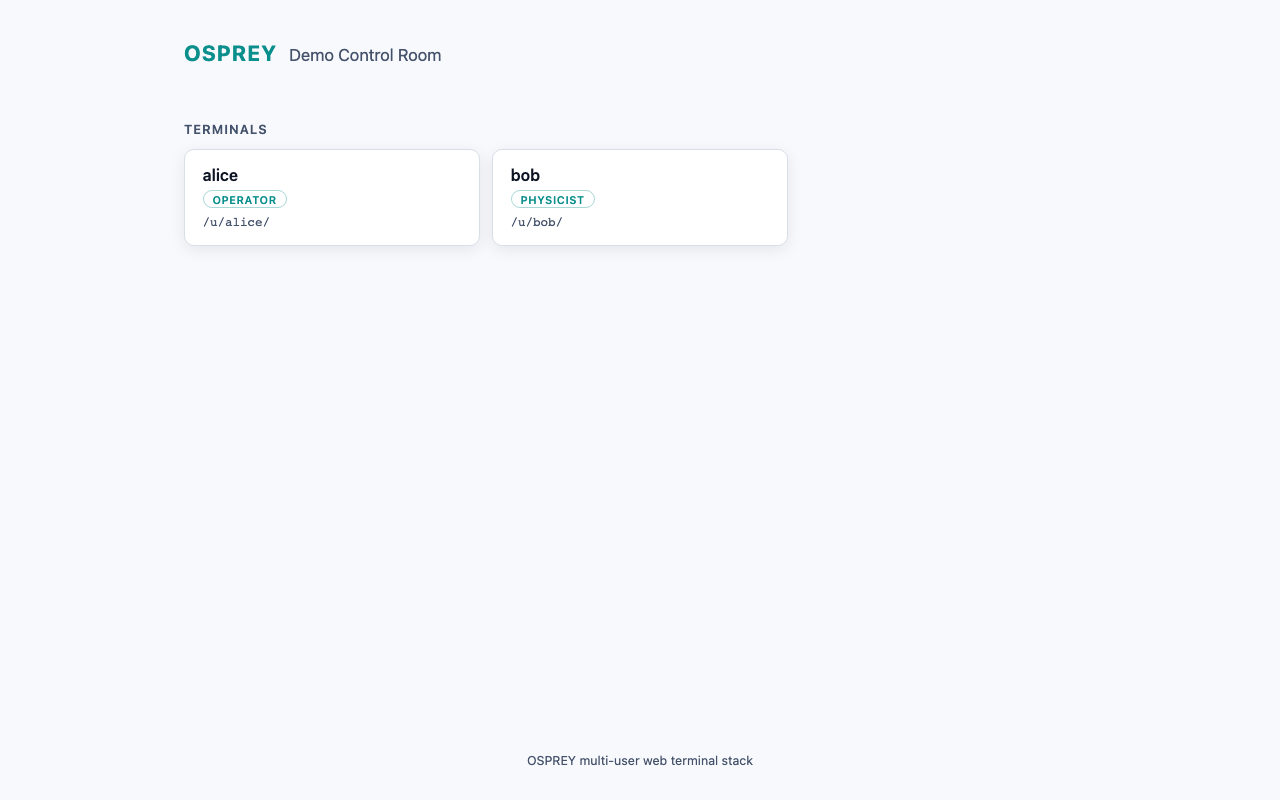
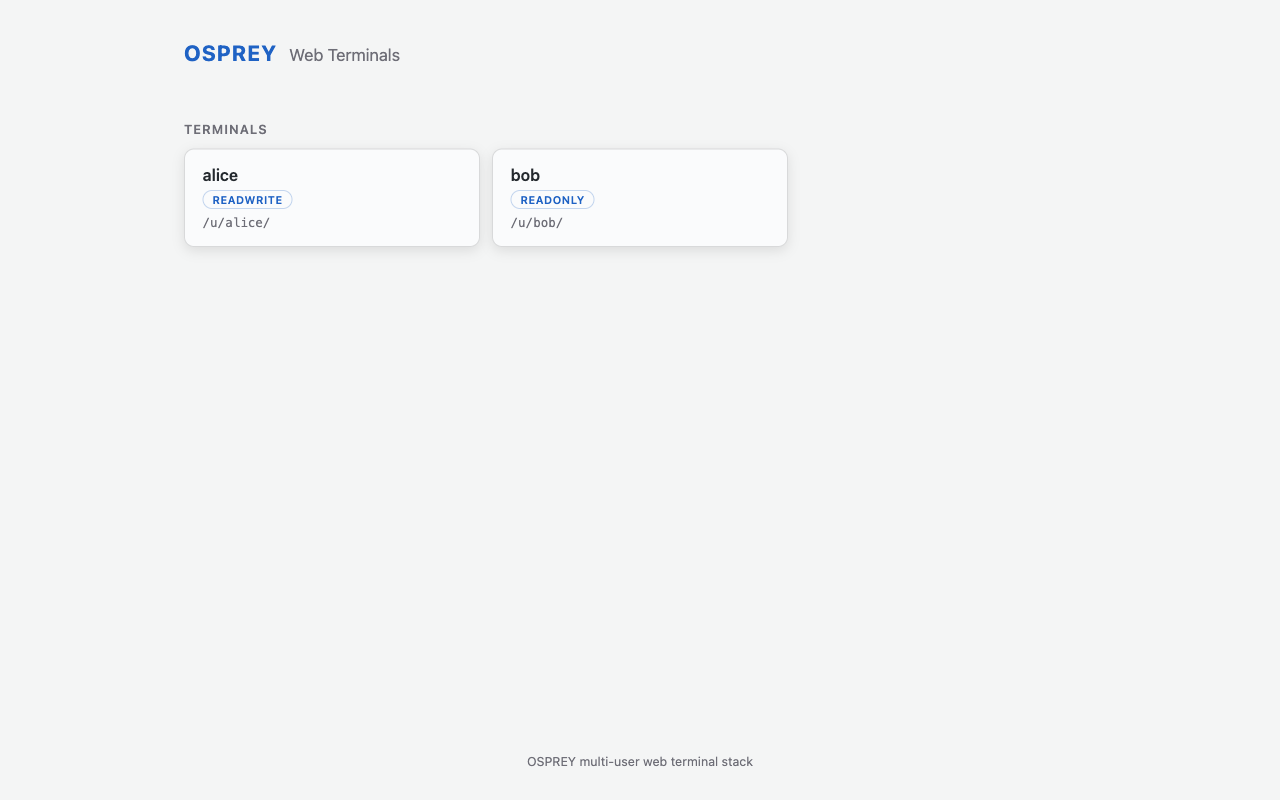
feat(presets): split control-assistant tiers by role, surface, and panels
The tutorial roster now ships alice as the write-capable operator and bob
as the read-only viewer, each with a role-naming browser tab title. The
personas pin the full tier contract, not just the write switch: expert vs
simple web surface, and the EVENTS/BLUESKY panel declarations move from
the shared base into the readwrite persona so the read-only terminal is
built without them (a persona delta cannot subtract inherited config, and
enabled: false is inert for URL panels). Both terminals default to the
main theme in light mode.

Preset content hashes are re-pinned knowingly; the persona contract test
asserts the three-axis tier boundary wholesale, and the multi-user guide
and landing screenshot track the shipped shape.

diff --git a/tests/cli/test_persona_presets.py b/tests/cli/test_persona_presets.py
@@ -2,13 +2,16 @@
 
 The ``control-assistant`` preset hosts its own multi-user web tier — nginx,
 the landing page, and one terminal container per roster user — alongside the
-full scan stack. Two persona presets extend it to carve out capability
-postures that differ on exactly one axis, ``control_system.writes_enabled``:
+full scan stack. Two persona presets extend it to carve out capability tiers
+that differ on exactly three axes — enforcement
+(``control_system.writes_enabled``), surface (``web.ui_mode``), and the
+write-oriented panel declarations (EVENTS + BLUESKY, readwrite-only):
 
-* ``control-assistant-readwrite`` — write-capable tier; channel writes pass
-  the ordinary safety chain (writes-check, limits, human approval).
-* ``control-assistant-readonly`` — read-only tier; every write surface
-  refuses.
+* ``control-assistant-readwrite`` — write-capable tier; expert workspace;
+  channel writes pass the ordinary safety chain (writes-check, limits, human
+  approval); declares the EVENTS/BLUESKY panels.
+* ``control-assistant-readonly`` — read-only tier; simple chat-first surface;
+  every write surface refuses; built without the EVENTS/BLUESKY panels.
 
 The base's own ``web_terminals`` roster block is also exercised here. Shared
 render helpers live at the top so new sections append without restructuring.
@@ -33,6 +36,19 @@ from osprey.utils.config_writer import config_update_fields
 # The single config key the two persona tiers differ on — the reference
 # monitor's master write switch (see osprey.connectors.control_system.base).
 WRITES_KEY = "control_system.writes_enabled"
+UI_MODE_KEY = "web.ui_mode"
+# The write-oriented panels: declared only in the readwrite persona, so the
+# readonly build genuinely lacks them (a persona delta can only add config
+# keys; `enabled: false` is inert for URL panels).
+READWRITE_PANEL_KEYS = (
+    "web.panels.events.label",
+    "web.panels.events.url",
+    "web.panels.events.path",
+    "web.panels.events.health_endpoint",
+    "web.panels.bluesky.label",
+    "web.panels.bluesky.url",
+    "web.panels.bluesky.path",
+)
 
 # The literal dotted key the hosting preset must carry: the whole web-terminals
 # module subtree addressed as one leaf so config_writer sets only this leaf and
@@ -178,8 +194,9 @@ class TestControlAssistantWebTier:
         """The rendered ``modules.web_terminals`` subtree matches the two-persona
         tutorial shape: local image source, readonly default, a
         readonly/readwrite catalog whose ``project`` equals its ``project_path``
-        basename, and a roster mapping alice→readonly and bob→readwrite, both
-        explicit.
+        basename, and a roster mapping alice→readwrite and bob→readonly, both
+        explicit, each carrying the tab-title ``display_name`` that visibly
+        marks which terminal is write-armed.
 
         Deliberately pins the preset's OWN ``config:`` layer, BEFORE the catalog
         rewrite every build performs — which is why the ``build_profile`` values
@@ -199,8 +216,18 @@ class TestControlAssistantWebTier:
         assert wt["default_persona"] == "readonly"
         assert wt["nginx_port"] == 9080
 
-        assert wt["users"][0] == {"name": "alice", "index": 0, "persona": "readonly"}
-        assert wt["users"][1] == {"name": "bob", "index": 1, "persona": "readwrite"}
+        assert wt["users"][0] == {
+            "name": "alice",
+            "index": 0,
+            "persona": "readwrite",
+            "display_name": "Control Room (Alice)",
+        }
+        assert wt["users"][1] == {
+            "name": "bob",
+            "index": 1,
+            "persona": "readonly",
+            "display_name": "Read-Only View (Bob)",
+        }
 
         personas = wt["personas"]
         assert set(personas) == {"readonly", "readwrite"}
@@ -295,10 +322,11 @@ class TestControlAssistantWebTier:
 
 
 class TestControlAssistantPersonas:
-    """The readonly/readwrite pair: identical projects except for the one
-    write-switch key. Any second difference that creeps in would turn the
-    multi-user story ("one switch, every write surface") into a lie, so the
-    invariant is asserted wholesale rather than key-by-key."""
+    """The readonly/readwrite pair: identical projects except for the tier
+    contract — enforcement (``writes_enabled``), surface (``ui_mode``), and
+    the write-oriented panel declarations (readwrite-only). Any FOURTH
+    difference that creeps in would turn the multi-user story into a lie, so
+    the invariant is asserted wholesale rather than key-by-key."""
 
     def test_readonly_extends_base_and_disables_writes(self) -> None:
         profile = resolve_preset("control-assistant-readonly")
@@ -322,15 +350,24 @@ class TestControlAssistantPersonas:
             profile = resolve_preset(name)
             assert profile.config.get("control_system.type") == "virtual_accelerator"
 
-    def test_personas_differ_only_on_writes_enabled(self) -> None:
+    def test_personas_differ_only_on_the_tier_contract(self) -> None:
         readonly = resolve_preset("control-assistant-readonly")
         readwrite = resolve_preset("control-assistant-readwrite")
 
         ro_cfg = dict(readonly.config)
         rw_cfg = dict(readwrite.config)
+        # Axis 1 — enforcement: the write switch.
         assert ro_cfg.pop(WRITES_KEY) is False
         assert rw_cfg.pop(WRITES_KEY) is True
-        # With the axis key removed, the rendered config overrides are identical.
+        # Axis 2 — surface: chat-first for the viewer, full dock for the operator.
+        assert ro_cfg.pop(UI_MODE_KEY) == "simple"
+        assert rw_cfg.pop(UI_MODE_KEY) == "expert"
+        # Axis 3 — write-oriented panels: declared for the write tier only.
+        # pop() without default doubles as the presence assertion on rw_cfg.
+        for key in READWRITE_PANEL_KEYS:
+            assert key not in ro_cfg, f"readonly persona must not declare {key}"
+            rw_cfg.pop(key)
+        # With the tier-contract keys removed, the personas are identical.
         assert ro_cfg == rw_cfg
 
     def test_personas_share_every_artifact_list(self) -> None:

diff --git a/tests/cli/test_preset_hash_pin.py b/tests/cli/test_preset_hash_pin.py
@@ -84,12 +84,23 @@ PINNED_PRESET_HASHES: dict[str, str] = {
     # signal. The archive work and the panel merge landed either side of this
     # merge, so as above the digests carry both at once. Both extends children
     # inherit it, so all three moved.
-    "control-assistant": "sha256:edf098ea7affaa4ddec708eee5dba46cb5799738c9914526eaf475582e3c0326",
+    # Re-pinned again when the persona tiers were redesigned: the roster now
+    # maps alice→readwrite and bob→readonly (each with a `display_name` tab
+    # title), the base pins `web.theme: light`, both personas pin `web.ui_mode`
+    # (expert/simple), and the EVENTS/BLUESKY panel declarations moved from the
+    # base's `config:` into the readwrite persona so the readonly build is
+    # genuinely panel-free (a persona delta cannot subtract inherited config
+    # keys, and `enabled: false` is inert for URL panels). NOT behavior-neutral
+    # — a rebuilt readonly project loses two tabs, gains the simple surface,
+    # and the roster swaps which port is write-armed — so the staleness
+    # advisory firing on already-deployed projects is the correct signal. The
+    # base and both children changed directly, so all three digests moved.
+    "control-assistant": "sha256:4d6b59a05c9b03d880d9d056d4513244fe6ce34b8f649dafc6f47cb514a8f5a2",
     "control-assistant-readonly": (
-        "sha256:4cb215e59d6b99ae530c60d6305e97ca8eb459aa4f9d5049f2e329d6e87911ae"
+        "sha256:05cfccc0fdeac6d857dd26826b43e856bb785724d5ab1d11a3413310d80af470"
     ),
     "control-assistant-readwrite": (
-        "sha256:90be07f5620df02e44c40b1b75b8b2ce12a738f06dc816a5a8c0febfa631ec08"
+        "sha256:11dfe6be09673c2ed1a02e5ac0e2b271d0d49109692c0ff3c97343ea13310b5e"
     ),
     "hello-world": "sha256:ac9c00d70922c3c88d561f7ffa29af3ccb1650d5a8bfaa13b884563199ce371a",
 }

diff --git a/docs/source/how-to/multi-user.rst b/docs/source/how-to/multi-user.rst
@@ -114,10 +114,14 @@ The config block
              channel_finder_base_port: 9591
              default_persona: readonly
              users:
-             - alice                   # bare name → default_persona
+             - name: alice
+               index: 0
+               persona: readwrite
+               display_name: "Control Room (Alice)"
              - name: bob
                index: 1
-               persona: readwrite
+               persona: readonly
+               display_name: "Read-Only View (Bob)"
              personas:
                readonly:
                  project: control-assistant-readonly
@@ -138,8 +142,10 @@ The config block
       ``osprey deploy up``.
 
       The ``users`` list is the roster — the single source of truth for who
-      exists. A bare name resolves to ``default_persona``; an entry with an
-      explicit ``persona`` picks its tier. Each user's host ports are
+      exists. A bare name (``- carol``) resolves to ``default_persona`` —
+      read-only, so a hastily added user lands on the safe side; an entry with
+      an explicit ``persona`` picks its tier, and an optional ``display_name``
+      becomes that user's browser tab title. Each user's host ports are
       ``base + index`` in every port family — one family per companion panel
       (artifact gallery, ARIEL, channel finder, lattice dashboard, …) plus the
       terminal itself — so alice (index 0) serves her terminal on ``9091`` and
@@ -289,22 +295,26 @@ each labelled with the persona it resolves to:
    :align: center
    :width: 100%
 
-   The grouped landing page: alice resolves to the readonly persona, bob to
-   readwrite. Click a card to open that user's session.
+   The grouped landing page: alice resolves to the readwrite persona, bob to
+   readonly. Click a card to open that user's session.
 
-alice is a bare roster entry, so she resolves to the preset's
-``default_persona`` (readonly). bob names his persona (readwrite) explicitly.
-Clicking a card opens that user's terminal at ``/u/<name>/``, proxied by nginx
-to the user's own container.
+Both entries name their persona explicitly — alice the readwrite tier, bob the
+readonly one. (A bare roster entry would fall back to the preset's
+``default_persona``, readonly, so an implicit user always lands on the safe
+side.) Clicking a card opens that user's terminal at ``/u/<name>/``, proxied
+by nginx to the user's own container.
 
 Two sessions, two write postures
 --------------------------------
 
 Each persona is a self-contained OSPREY project with its **own** permissions,
 because permissions are a property of a project's ``config.yml`` — the two
-tiers are genuinely different agents, not one agent with a UI toggle. They
-differ on exactly **one** config key, the reference monitor's master write
-switch:
+tiers are genuinely different agents, not one agent with a UI toggle. The
+enforcement boundary is exactly **one** config key, the reference monitor's
+master write switch; the tiers additionally differ in presentation — the
+write-armed terminal gets the full expert workspace with the EVENTS and
+BLUESKY control panels, the read-only one a chat-first simple surface without
+them:
 
 .. list-table::
    :header-rows: 1
@@ -314,15 +324,15 @@ switch:
      - ``control_system.writes_enabled``
      - What that means in the session
    * - **alice**
-     - ``false``
-     - Read-only. Channel reads, the channel finder, the archiver, and logbook
-       search all work — but every write surface refuses: channel writes,
-       read-write Python execution, all of it, from the single switch.
-   * - **bob**
      - ``true``
      - Write-capable — and supervised, not unguarded. A channel write still
        passes the writes-check hook, per-channel min/max limits, and a human
        approval prompt before the connector executes it.
+   * - **bob**
+     - ``false``
+     - Read-only. Channel reads, the channel finder, the archiver, and logbook
+       search all work — but every write surface refuses: channel writes,
+       read-write Python execution, all of it, from the single switch.
 
 The posture is a property of the **session**, not a statement about the
 person: which teammates get a write-capable tier is your roster's call, and
@@ -335,17 +345,19 @@ user's terminal and ask both agents to do the same two things:
 **Read.** Ask either agent about a channel — a corrector setpoint, a BPM
 reading. Both sessions answer identically: reads are ungated on both tiers.
 
-**Write.** Ask each agent to change a setpoint. In bob's session the write
-goes to a human approval prompt, then executes. In alice's session the same
-request is **refused**: the write tool is denied in her project's rendered
-permissions, and the refusal states plainly that writes are disabled in her
+**Write.** Ask each agent to change a setpoint. In alice's session the write
+goes to a human approval prompt, then executes. In bob's session the same
+request is **refused**: the write tool is denied in his project's rendered
+permissions, and the refusal states plainly that writes are disabled in his
 configuration.
 
 Both agents carry the *same* tool surface — the readonly tier is not a
 stripped-down agent that never heard of writing. It is the same agent whose
 write path is switched off in its own project, which is exactly what you want
 to demonstrate to a control room: the boundary holds at the enforcement layer,
-not at the menu.
+not at the menu. (The readonly terminal's leaner look — no EVENTS/BLUESKY
+tabs, chat-first layout — is presentation for the viewer tier, not the
+boundary itself: the refusal above fires with or without it.)
 
 Logging out and switching users
 -------------------------------

diff --git a/CHANGELOG.md b/CHANGELOG.md
@@ -11,6 +11,15 @@ Compatibility is documented in release notes, not encoded in the version string.
 
 ## [Unreleased]
 
+### Changed
+
+- The control-assistant tutorial's two-user roster now ships alice as the
+  write-capable operator and bob as the read-only viewer. The tiers differ
+  visibly, not just in enforcement: the write-armed terminal keeps the full
+  expert workspace with the EVENTS and BLUESKY panels, the read-only one gets
+  a chat-first simple layout without them, both default to the light theme,
+  and each browser tab is titled after its role.
+
 ### Added
 
 - An archiver read that comes back empty now says why: the response carries a
